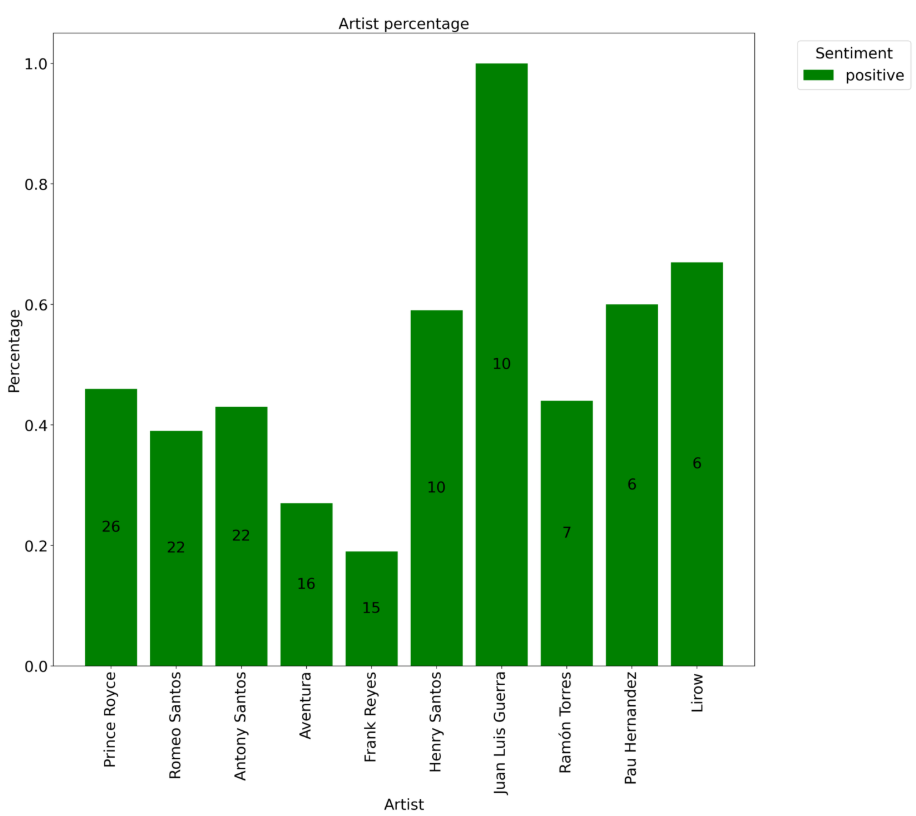
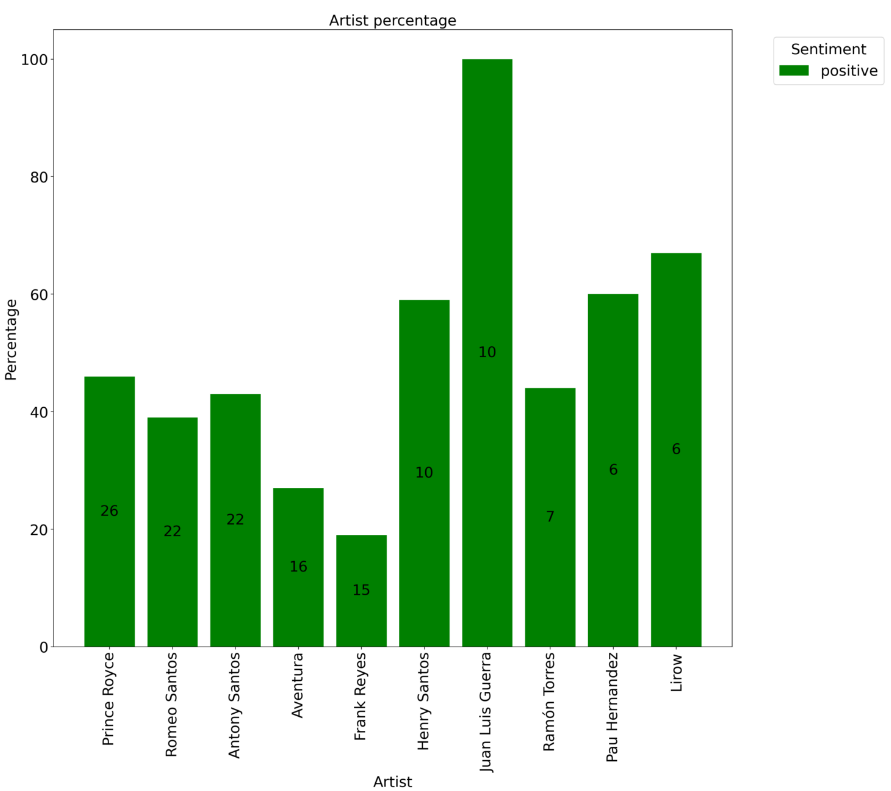
change percentage presentation

diff --git a/statistics_dir/statistics_helper.py b/statistics_dir/statistics_helper.py
@@ -71,7 +71,7 @@ def known_sentiment_artists_calc_counts_with_sentiment(df, col, sentiment_col, s
         if sent_counts != 0:
             nested_dict[col_value] = {
                 'Frequency': sent_counts,
-                'Percentage': round(sent_counts/singer_frequency, 2),
+                'Percentage': round(sent_counts/singer_frequency, 2) * 100,
                 'Sentiments': ordered_counts
             }
     artist_stat_len = len(nested_dict)

diff --git a/README.md b/README.md
@@ -44,10 +44,10 @@ Advance sentiment analysis not only identifies whether the emotional tone of a m
 
 Examples
 Song with positive sentiment:
-"Corazón Sin Cara by Prince Royce" - Embracing and loving someone for who they are, beyond physical appearances and imperfections.
+"Corazón Sin Cara" ("Heart Without a Face") by Prince Royce - Embracing and loving someone for who they are, beyond physical appearances and imperfections.
 
 Song with negative sentiment:
-"Los Infieles by Aventura" - Engaging in a forbidden love affair despite the dangers and moral consequences.
+"Los Infieles" ("The Unfaithful Ones") by Aventura - Engaging in a forbidden love affair despite the dangers and moral consequences.
 
 ## Usage
 The statistics is showing in the application. There are two ways to run the application:
